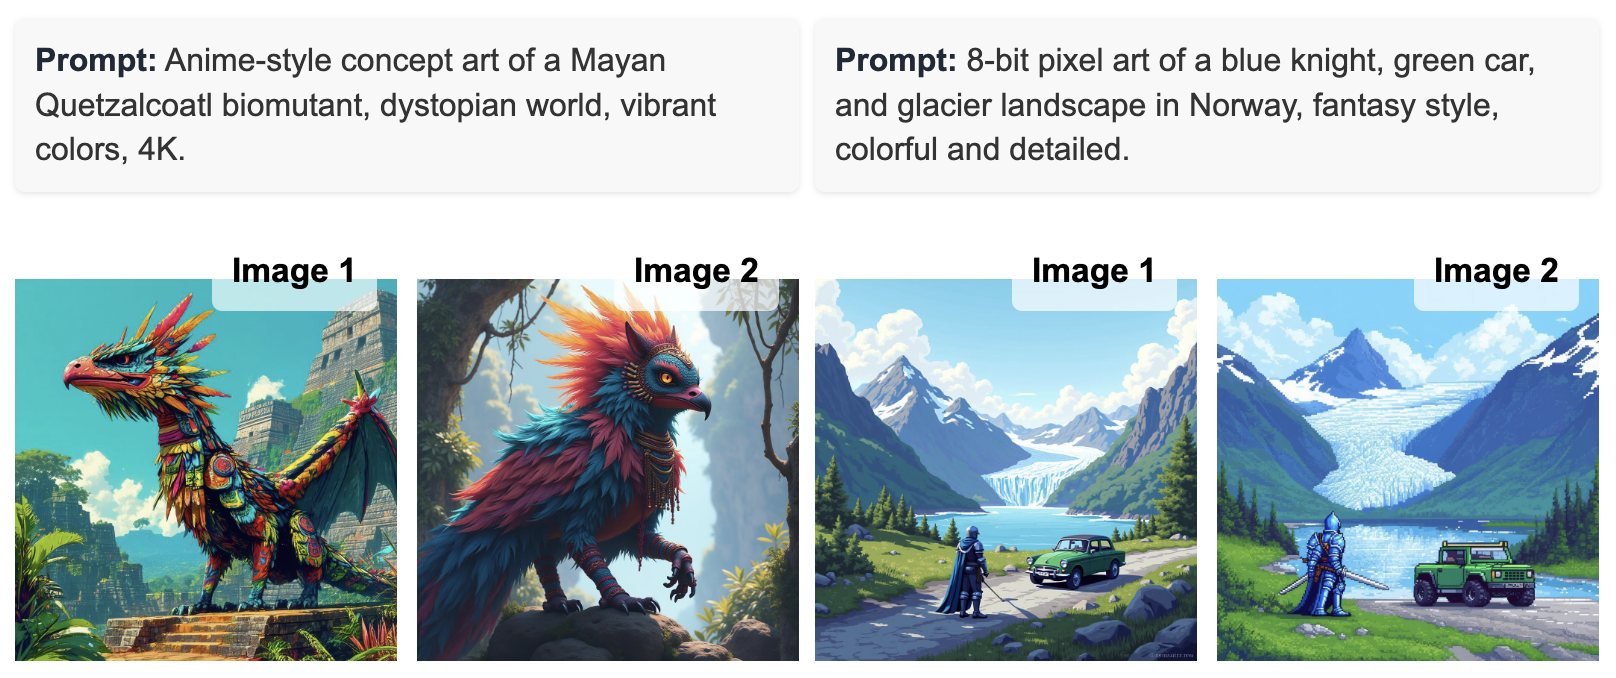
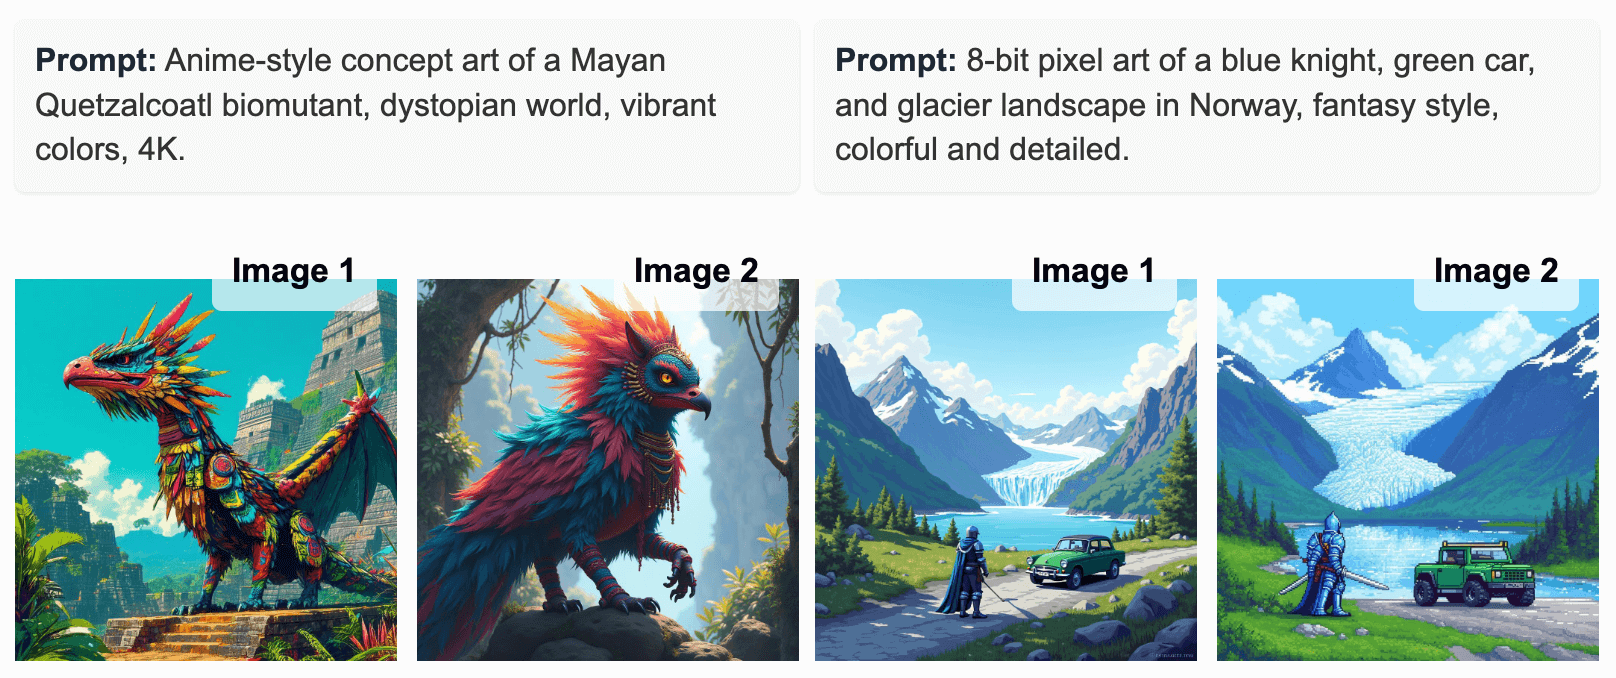
add examples of promp enhancements update images with tinypng version

diff --git a/image-preferences.md b/image-preferences.md
@@ -67,6 +67,33 @@ We used the following pipeline:
 
 Data diversity is important for data quality, which is why we decided to enhance our dataset by synthetically rewriting prompts based on various categories and complexities. This was done using a [distilabel pipeline](https://github.com/huggingface/data-is-better-together/blob/main/community-efforts/image_preferences/01_synthetic_data_generation_total.py).
 
+<table>
+  <thead>
+    <tr>
+      <th>Type</th>
+      <th>Prompt</th>
+      <th>Image</th>
+    </tr>
+  </thead>
+  <tbody>
+    <tr>
+      <td>Default</td>
+      <td>a harp without any strings</td>
+      <td><img src="/blog/assets/image_preferences/basic.jpeg" alt="Default Harp Image" width="100"></td>
+    </tr>
+    <tr>
+      <td>Stylized</td>
+      <td>a harp without strings, in an anime style, with intricate details and flowing lines, set against a dreamy, pastel background</td>
+      <td><img src="/blog/assets/image_preferences/stylized.jpeg" alt="Stylized Harp Image" width="100"></td>
+    </tr>
+    <tr>
+      <td>Quality</td>
+      <td>a harp without strings, in an anime style, with intricate details and flowing lines, set against a dreamy, pastel background, bathed in soft golden hour light, with a serene mood and rich textures, high resolution, photorealistic</td>
+      <td><img src="/blog/assets/image_preferences/quality.jpeg" alt="Quality Harp Image" width="100"></td>
+    </tr>
+  </tbody>
+</table>
+
 #### Prompt categories
 
 [InstructGPT](https://arxiv.org/pdf/2203.02155) describes foundational task categories for text-to-text generation but there is no clear equivalent of this for text-to-image generation. To alleviate this, we used two main sources as input for our categories: [google/sdxl](https://huggingface.co/spaces/google/sdxl/blob/main/app.py) and [Microsoft](https://www.microsoft.com/en-us/bing/do-more-with-ai/ai-art-prompting-guide/ai-genres-and-styles?form=MA13KP). This led to the following main categories:  ["Cinematic", "Photographic", "Anime", "Manga", "Digital art", "Pixel art", "Fantasy art", "Neonpunk", "3D Model", “Painting”, “Animation” “Illustration”]. On top of that we also chose some mutually exclusive, sub-categories to allow us to further diversify the prompts. These categories and sub-categories have been randomly sampled and are therefore roughly equally distributed across the dataset.
@@ -106,7 +133,7 @@ Given the annotator alignment, both models proved to perform better within their
 
 ### Model-finetune
 
-To verify the quality of the dataset, while not spending too much time and resources we decided to do a [Dreambooth](https://dreambooth.github.io/) fine-tune of the [black-forest-labs/FLUX.1-dev](https://huggingface.co/black-forest-labs/FLUX.1-dev) model. We did a supervised fine-tuning, where we only included the chosen sample as expected completions. Interestingly, the chosen fine-tuned models perform much better in art and cinematic scenarios where it was initially lacking! You can [test the fine-tuned adapter here](https://huggingface.co/data-is-better-together/image-preferences-flux-dev-lora).
+To verify the quality of the dataset, while not spending too much time and resources we decided to do a LoRA fine-tune of the [black-forest-labs/FLUX.1-dev](https://huggingface.co/black-forest-labs/FLUX.1-dev) model based on [the diffusers example on GitHub](https://github.com/huggingface/diffusers/blob/main/examples/dreambooth/train_dreambooth_lora_flux.py). During this process, we included the chosen sample as expected completions for the FLUX-dev model and left out the rejected samples. Interestingly, the chosen fine-tuned models perform much better in art and cinematic scenarios where it was initially lacking! You can [test the fine-tuned adapter here](https://huggingface.co/data-is-better-together/image-preferences-flux-dev-lora).
 
 ![model-finetune](/blog/assets/image_preferences/model_finetune.png)
 
